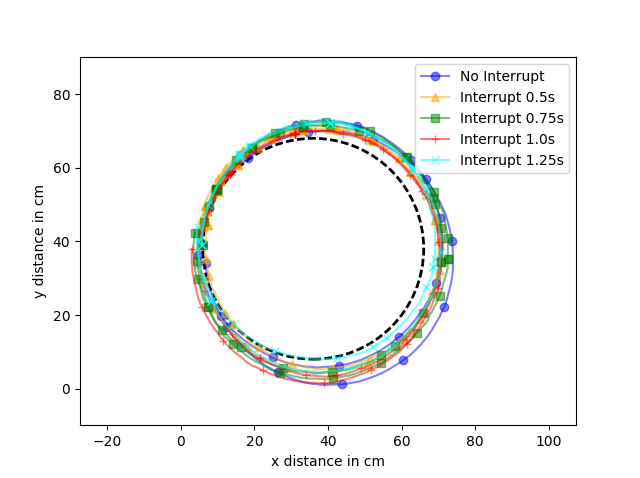
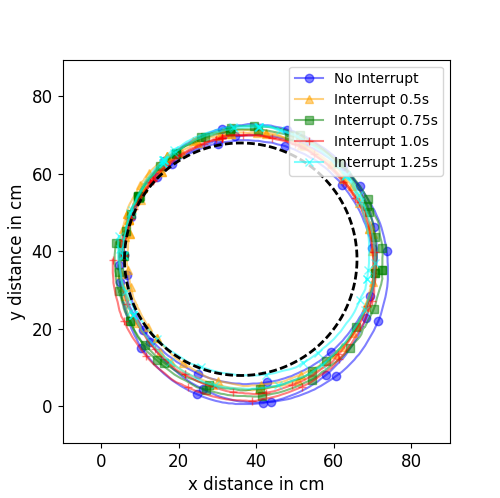
Update Evaluation seciton

Changed region(s): [[0.0, 0.1172, 0.9, 0.9958]]

diff --git a/Latex/Thesis/chapters/evaluation.tex b/Latex/Thesis/chapters/evaluation.tex
@@ -63,7 +63,7 @@ Choosing a period of 0.25\,s showed uncontrolled behavior, while the robots cont
 To find the minimal power interrupt period that is required to control the robot, the robot is programmed to preform a four second straight movement.
 The movement is recorded for each target speed and the power interrupt periods of 0.4\,s, 0.3\,s and 0.2\,s are evaluated.
 
-The results show that a interrupt period of 0.2\,s results in uncontrolled behavior, while the robot drifts to the side of the weakest motor, as shown in Figure \ref{fig:decreasing_power_period}.
+The results in Figure \ref{fig:decreasing_power_period} show that a interrupt period of 0.2\,s results in uncontrolled behavior, while the robot drifts to the side of the weakest motor.
 Increasing the target speed shows that also a higher interrupt period period is required to control the movement. 
 The power interrupt periods evaluated in this experiment were set to values above and equal to 0.5\,s: 1.25\,s, 1\,s, 0.75\,s and 0.5\,s.
 
@@ -91,7 +91,7 @@ The power interrupt periods evaluated in this experiment were set to values abov
 \subsubsection{Velocity Calibration}
 Another thing that can be observed from the results in Figure \ref{fig:decreasing_power_period}, is that the distance covered by the robot deceases by deceasing the target and/or power interrupt period.
 Without any sensors or external feedback that can determine the robots speed, it is difficult to determine the distance that the robot has traveled.
-To get a rough estimate the speed is the average speed is estimated for each speed target and power interrupt period.
+The average speed is estimated for each speed target and power interrupt period.
 This is achieved by first determining the time that the robot requires to move approximately 150\,cm for each target without power interrupts.
 When the robot experiences power interrupts the average velocity of an active period becomes lower due to frequent acceleration from a standstill.
 With power interrupts the runtime is increased to make the robot travel roughly the same distance.
@@ -105,11 +105,11 @@ Finally, the average of five complete movement measurements is computed and divi
 	\label{tab:val_calib}
 	\begin{tabular}{|l|l|l|l|l|l|}
 		\hline
-		& No int & 1.25\,s & 1.0\,s & 0.75\,s & 0.5\,s \\
+		Target (\%) & No int & 1.25\,s & 1.0\,s & 0.75\,s & 0.5\,s \\
 		\hline \hline
-		Target 40\% & 18.9\,m/s & 18.2\,cm/s & 18.0\,cm/s & 17.1\,cm/s & 15.9\,cm/s \\
-		Target 65\% & 24.0\,m/s & 22.2\,cm/s & 21.3\,cm/s & 20.8\,cm/s & 18.8\,cm/s \\
-		Target 90\% & 28.8\,m/s & 26.4\,cm/s & 25.7\,cm/s & 24.5\,cm/s & 22.7\,cm/s \\
+		 40 & 18.9\,m/s & 18.2\,cm/s & 18.0\,cm/s & 17.1\,cm/s & 15.9\,cm/s \\
+	     65 & 24.0\,m/s & 22.2\,cm/s & 21.3\,cm/s & 20.8\,cm/s & 18.8\,cm/s \\
+		 90 & 28.8\,m/s & 26.4\,cm/s & 25.7\,cm/s & 24.5\,cm/s & 22.7\,cm/s \\
 		\hline
 	\end{tabular}
 \end{table}
@@ -130,17 +130,17 @@ The robot is commanded to move 75\,cm
 
 \begin{figure}
 	\centering
-	\begin{subfigure}[b]{0.62\textwidth}
+	\begin{subfigure}[b]{0.32\textwidth}
 		\includegraphics[width=\textwidth]{pics/straight_40.png}
 		\caption{Target 40\%}
 		\label{fig:stra_exp1}
 	\end{subfigure}
-	\begin{subfigure}[b]{0.62\textwidth}
+	\begin{subfigure}[b]{0.32\textwidth}
 		\includegraphics[width=\textwidth]{pics/straight_65.png}
 		\caption{Target 65\%}
 		\label{fig:stra_exp2}
 	\end{subfigure}
-	\begin{subfigure}[b]{0.62\textwidth}
+	\begin{subfigure}[b]{0.32\textwidth}
 		\includegraphics[width=\textwidth]{pics/straight_90.png}
 		\caption{Target 90\%}
 		\label{fig:stra_exp3}
@@ -152,21 +152,53 @@ The robot is commanded to move 75\,cm
 \subsection{Circular Movements Results}
 
 The robot is commanded make a circle with radius of 30\,cm
+\subsubsetion{Movement Accuracy Metrics}
 
 
-\begin{figure}
+
+\begin{table}[t]
 	\centering
-	\begin{subfigure}[b]{0.62\textwidth}
+	\caption{The mean and standard deviation of the Euclidean distance from the fitted circle.}
+	\label{tab:circular_results}
+	\begin{tabular}{|l|l||l|l|l|}
+		\hline
+		Target (\%) & Interrupt (s) & Radius (cm) & Mean (cm) & Std (cm)\\
+		\hline \hline
+		\multirow{5}{*}{40} & No int & 34 & 1.7 & 0.88 \\
+		& 1.25 & 32 & 1.92 & 1.04 \\
+		& 1.00 & 32 & 2.53 & 1.44 \\
+		& 0.75 & 33 & 2.17 & 1.48 \\
+		& 0.50 & 32 & 1.96 & 1.47 \\
+		\hline
+		\multirow{5}{*}{65} & No int & 34 & 1.91 & 1.06 \\
+		& 1.25 & 32 & 1.63 & 0.93 \\
+		& 1.00 & 32 & 1.36 & 0.98 \\
+		& 0.75 & 33 & 1.61 & 1.04 \\
+		& 0.50 & 32 & 1.23 & 0.60 \\
+		\hline
+		\multirow{5}{*}{90} & No int & 30 & 1.36 & 0.72 \\
+		& 1.25 & 31 & 1.30 & 0.72 \\
+		& 1.00 & 31 & 1.78 & 1.55 \\
+		& 0.75 & 31 & 1.04 & 0.59 \\
+		& 0.50 & 34 & 3.45 & 3.44 \\
+		\hline
+	\end{tabular}
+\end{table}
+
+
+\begin{figure}[h!]
+	\centering
+	\begin{subfigure}[b]{0.5\textwidth}
 		\includegraphics[width=\textwidth]{pics/circle_40.png}
 		\caption{Target 40\%}
 		\label{fig:circ_exp1}
 	\end{subfigure}
-	\begin{subfigure}[b]{0.62\textwidth}
+	\begin{subfigure}[b]{0.5\textwidth}
 		\includegraphics[width=\textwidth]{pics/circle_65.png}
 		\caption{Target 65\%}
 		\label{fig:circ_exp2}
 	\end{subfigure}
-	\begin{subfigure}[b]{0.62\textwidth}
+	\begin{subfigure}[b]{0.5\textwidth}
 		\includegraphics[width=\textwidth]{pics/circle_90.png}
 		\caption{Target 90\%}
 		\label{fig:circ_exp3}

diff --git a/Code/Python/Video experiments/plot_movement.py b/Code/Python/Video experiments/plot_movement.py
@@ -32,8 +32,9 @@ def plt_distance_from_ref_circle(data_list):
 
     samples = 300
     theta = np.linspace(-np.pi, np.pi, samples)
-    x = 36+30*np.sin(theta)
-    y = 38+30*np.cos(theta)
+    r = 30
+    x = 5.8 + r + (r * np.cos(theta))
+    y = 9.0 + r + (r * np.sin(theta))
 
     plt.figure()
     for dlist in data_list:
@@ -56,7 +57,11 @@ def plt_distance_from_ref_circle(data_list):
 
 def plot_raw_data(data_list):
 
-    plt.figure()
+    if movement == 1:
+        plt.figure(figsize=(5, 5))
+    elif movement == 3:
+        plt.figure(figsize=(3, 5))
+        plt.subplots_adjust(left=0.2)
     for dlist in data_list:
         plt.plot(*zip(*dlist[0]), label=label[dlist[1]], color=color_list[dlist[1]], marker=marker_list[dlist[1]], markevery=20, alpha=0.5)
 
@@ -80,7 +85,7 @@ def plot_raw_data(data_list):
     # remove duplicate labels
     handles, labels = plt.gca().get_legend_handles_labels()
     by_label = OrderedDict(zip(labels, handles))
-    plt.legend(by_label.values(), by_label.keys(), loc='upper right')
+    plt.legend(by_label.values(), by_label.keys(), loc='lower right')
     plt.show()
 
 
@@ -88,7 +93,7 @@ def plot_raw_data(data_list):
 
 ddir = 'Csv_Data/'
 
-movement = 1
+movement = 3
 set = 0
 pwm = ['30', '50', '70']
 re_list = ['', '_int500', '_int750', '_int1000', '_int1250']

diff --git a/Code/Python/Video experiments/deviation_from_circle.py b/Code/Python/Video experiments/deviation_from_circle.py
@@ -45,7 +45,6 @@ def plot_dist_multi():
     print 'avg std: ' + str(std[0] + std[1] / 2)
 
 
-
 def plot_raw_data():
     plt.figure(figsize=(5, 5))
     cnt = 1
